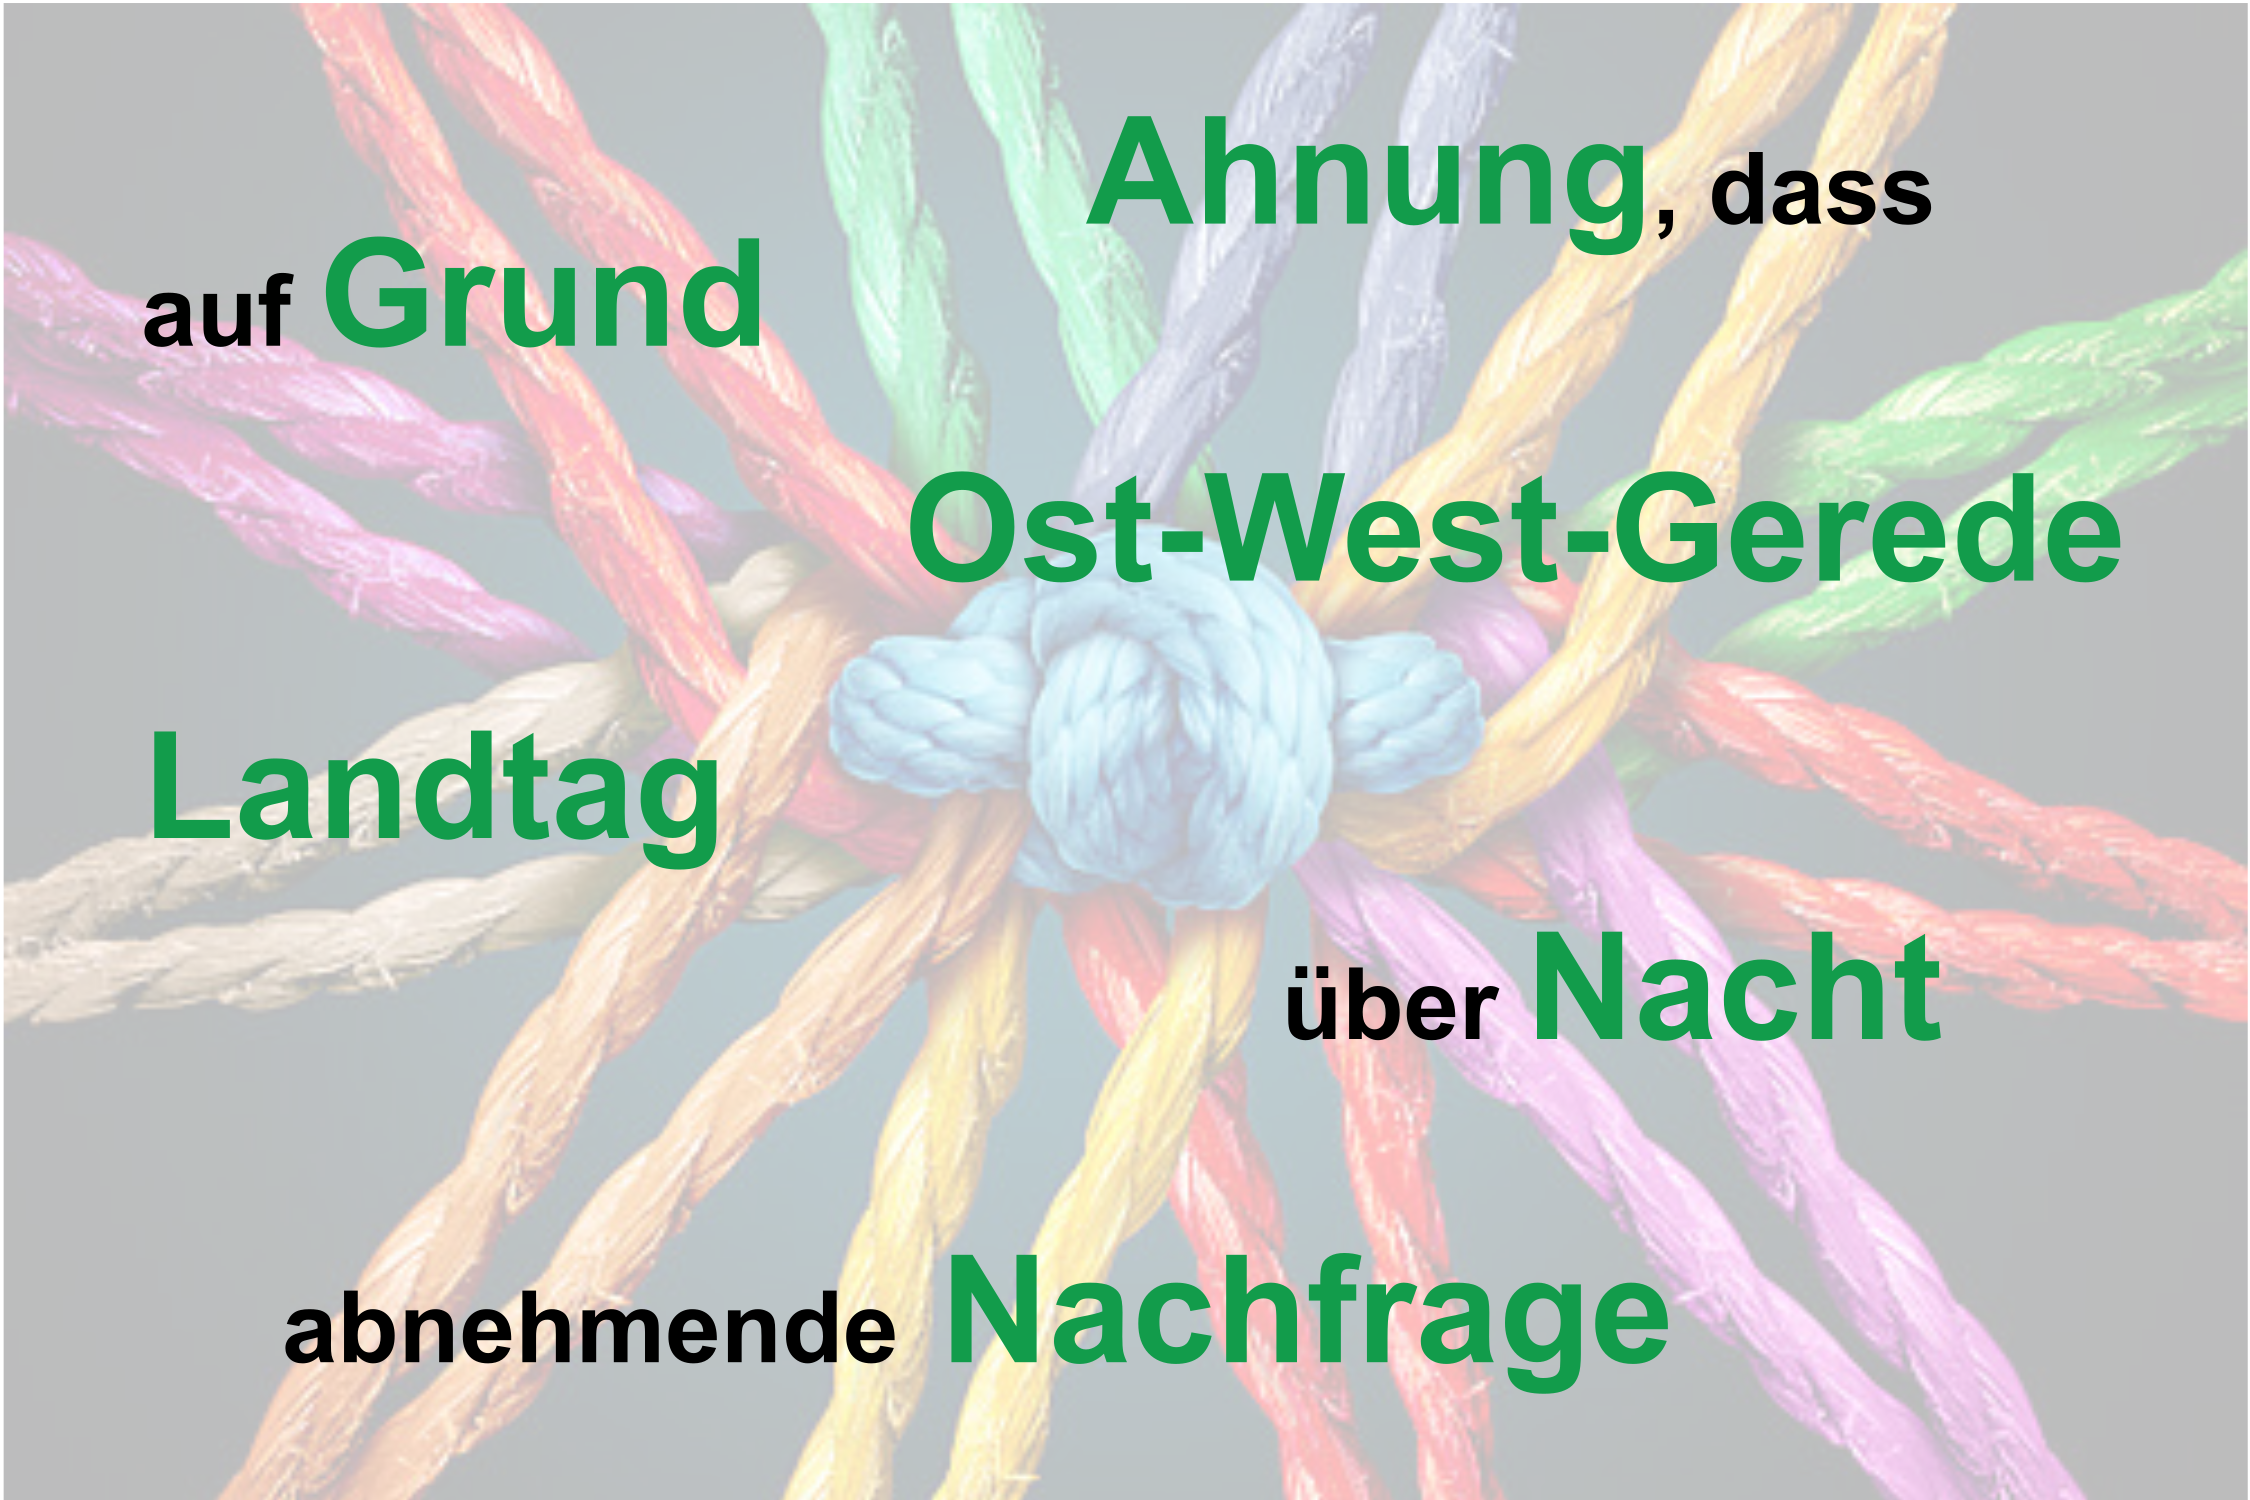
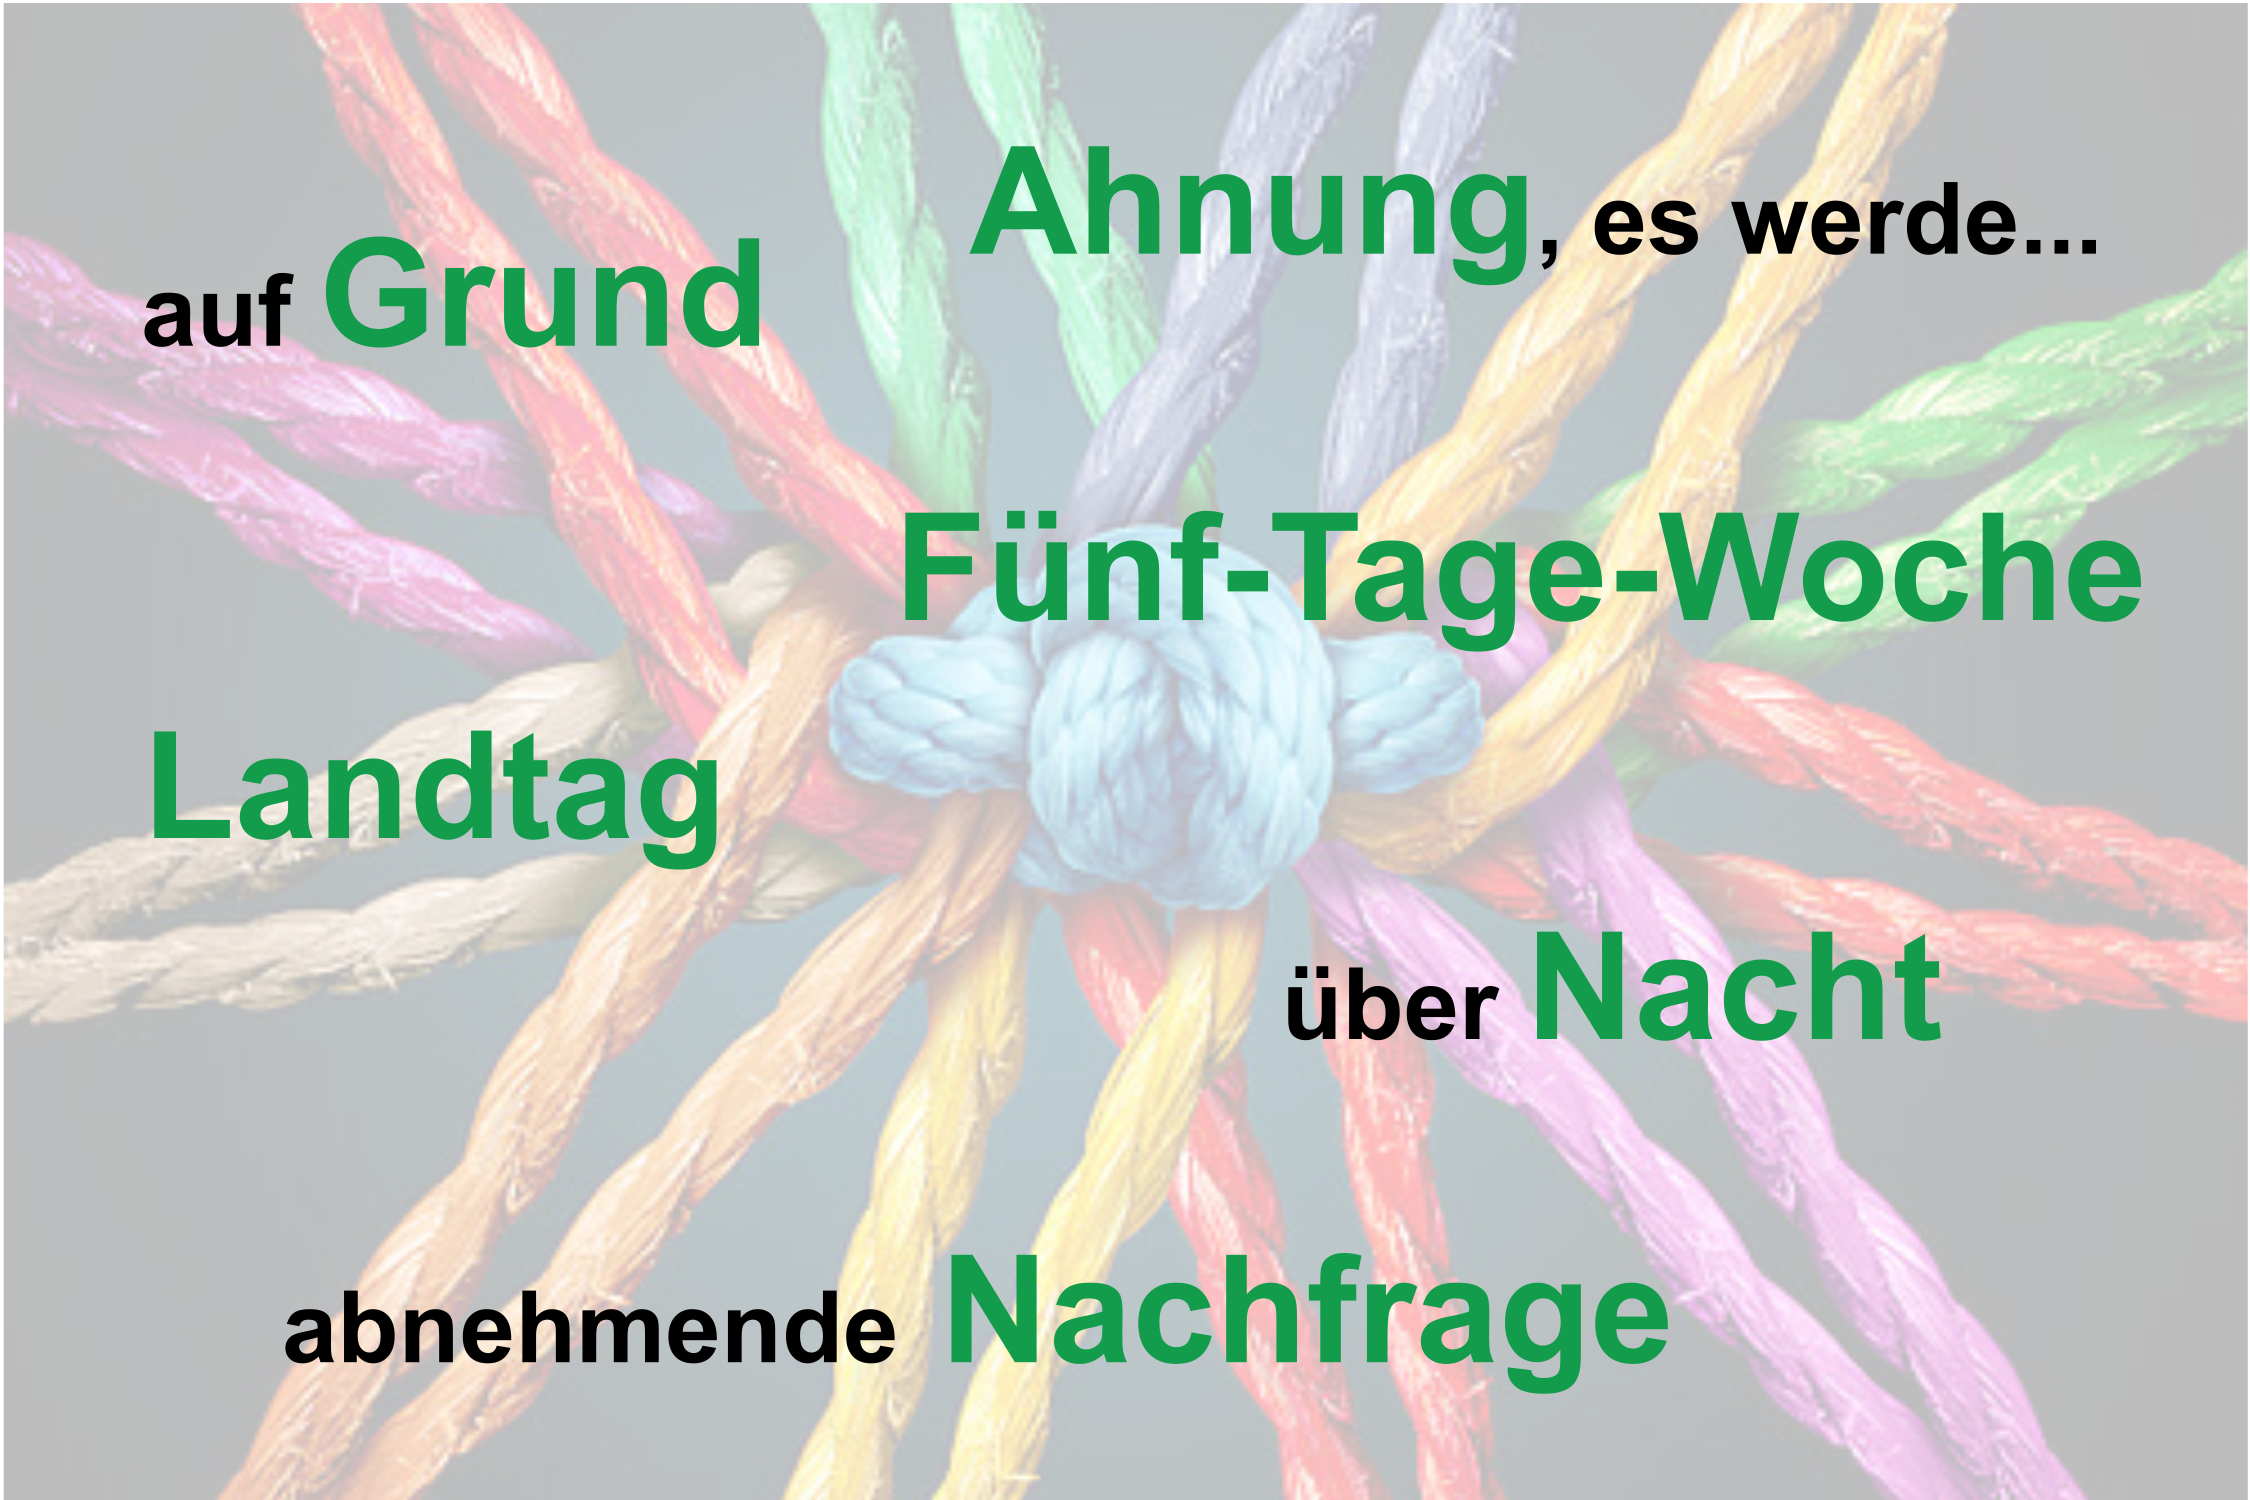
Korrekturen nomen

Changed region(s): [[0.4044, 0.3067, 0.9644, 0.4293], [0.4356, 0.0613, 0.9333, 0.2147]]

diff --git a/pages/pos/nouns.vue b/pages/pos/nouns.vue
@@ -141,11 +141,11 @@
          
           <template #explain>   
             <ul>
-            <li><span class="pos_highlight">Ost-West-Gerede</span> (Phrase: Ost-West + 
-                Nomen: <span class="pos_highlight">Gerede</span>)</li>
-            <li><span class="pos_highlight">"Ich-bin-dann-mal-weg"-Bedürfnis</span>  (Phrase: "Ich-bin-dann-mal-weg" + 
+            <li><span class="pos_highlight">Fünf-Tage-Woche</span> (Phrasem: Fünf Tage + 
+                Nomen: <span class="pos_highlight">Woche</span>)</li>
+            <li><span class="pos_highlight">"Ich-bin-dann-mal-weg"-Bedürfnis</span>  (Fester Satz: "Ich-bin-dann-mal-weg" + 
                 Nomen: <span class="pos_highlight">Bedürfnis</span>)</li>
-            <li><span class="pos_highlight">On-and-off-Freundschaft</span> (Phrase: On-and-Off + 
+            <li><span class="pos_highlight">On-and-off-Freundschaft</span> (Phrasem: On and Off + 
                 Nomen: <span class="pos_highlight">Freundschaft</span>)</li>
            </ul>    
           </template>
@@ -158,9 +158,9 @@
          
           <template #explain>   
             <ul>
-            <li><span class="pos_highlight">Absicht</span></li>
-            <li><span class="pos_highlight">Ahnung</span></li>
-            <li><span class="pos_highlight">Wort</span></li>
+            <li><span class="pos_highlight">Absicht</span>, sie zu beleidigen...</li>
+            <li><span class="pos_highlight">Ahnung</span>, es werde ihm vielleicht nicht gegönnt sein...</li>
+            <li>Aber er hält das dem Vater gegebne <span class="pos_highlight">Wort</span>, seine Traute nicht mehr zu besuchen.</li>
            </ul>  
           </template>
         </compare-item>

diff --git a/stores/resources.js b/stores/resources.js
@@ -436,7 +436,7 @@ export const useResourcesStore = defineStore("resourcesStore", {
             }
           } else if (Array.isArray(state.info[i][key])) {
             if (
-              !state.info[i][key].any((value) =>
+              !state.info[i][key].every((value) =>
                 state.valuesSelected[key].includes(value)
               )
             ) {
